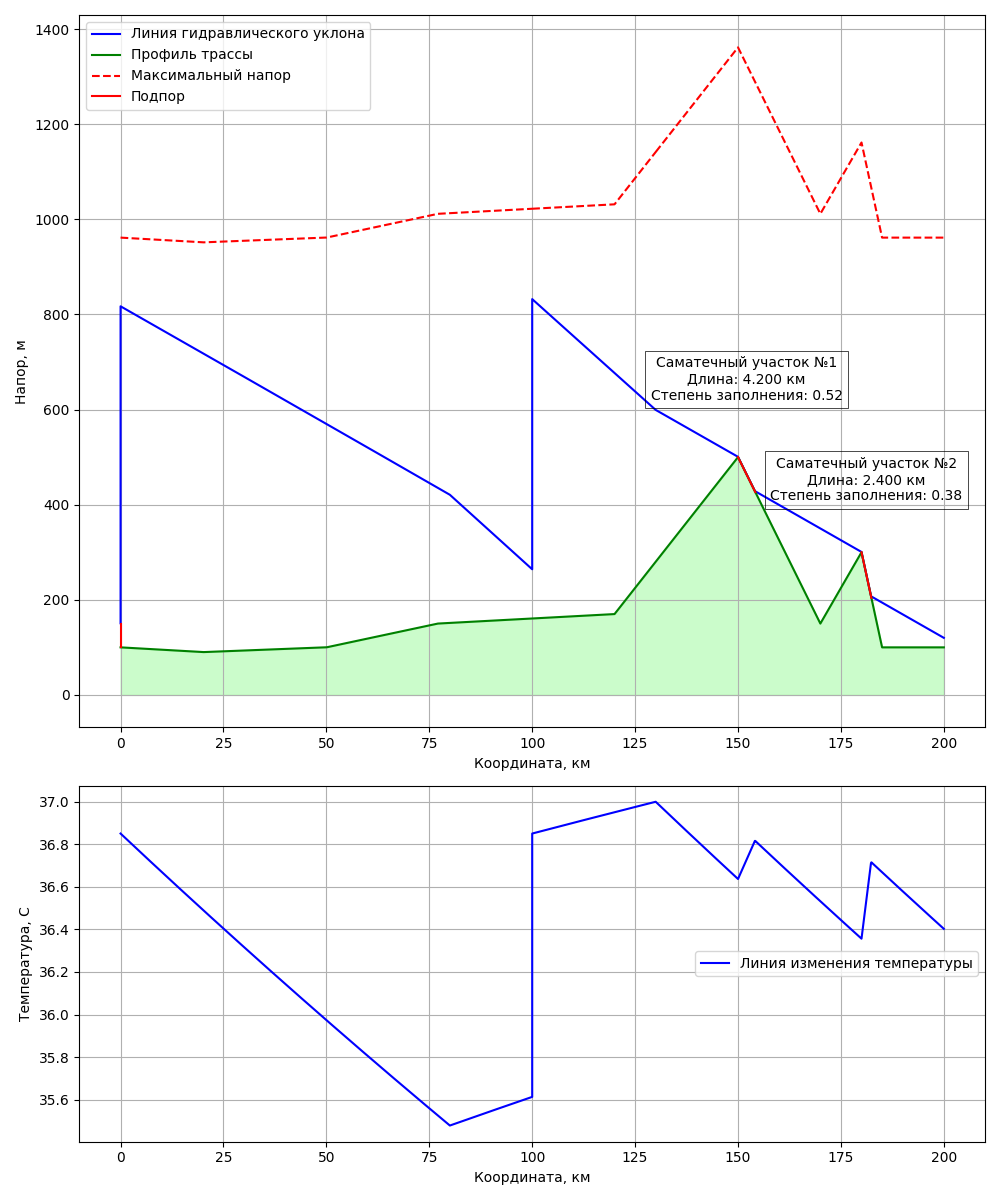
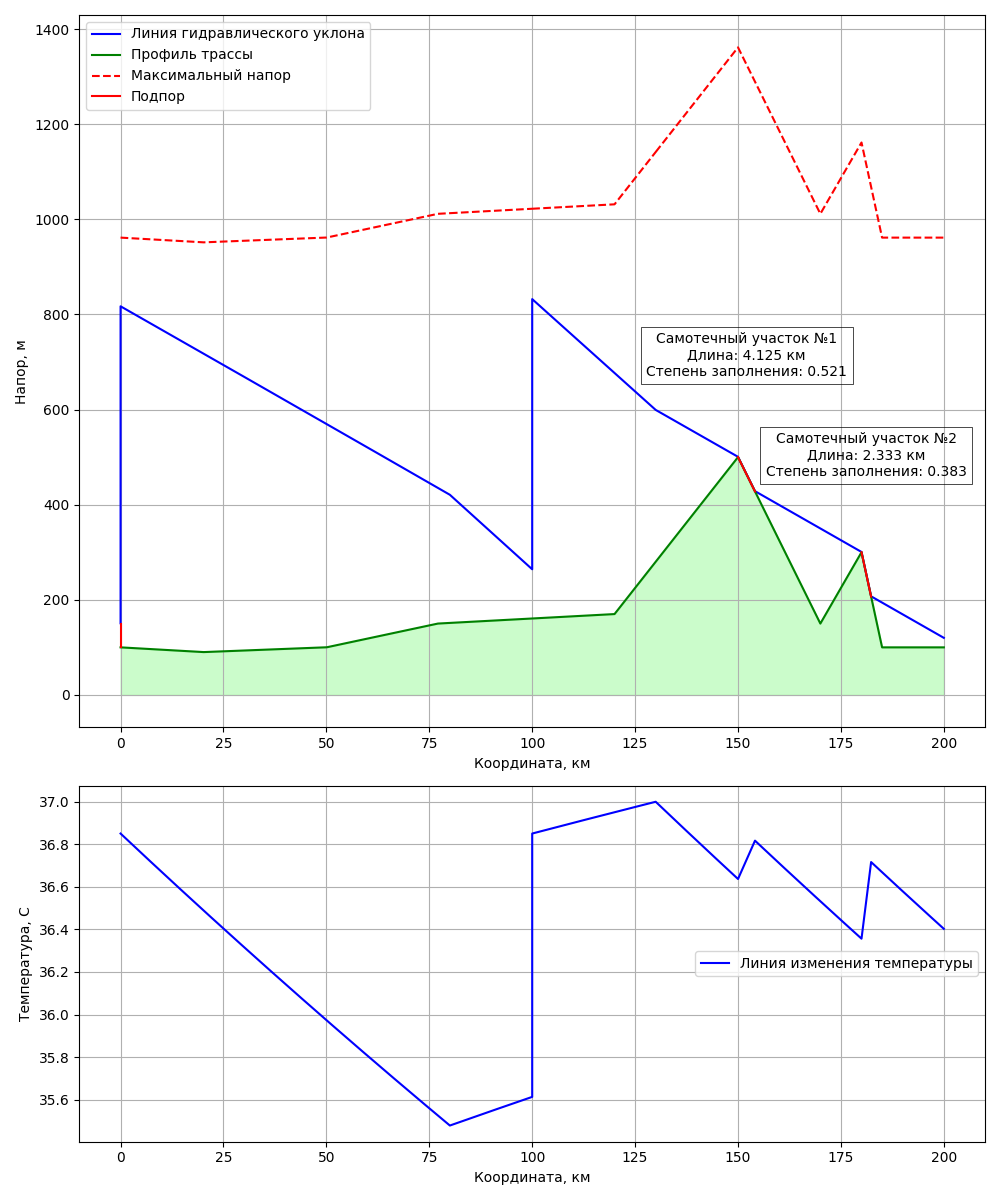
TODO: Plotter

Changed region(s): [[0.651, 0.2775, 0.961, 0.4317]]

diff --git a/src/plotter.py b/src/plotter.py
@@ -6,6 +6,7 @@ import matplotlib.patches as patches
 
 from src.models import HydraulicModelBase, Pipeline
 from src.models.pipeline import SelfFlow
+from src.tools import get_pressure
 
 
 class Plotter:
@@ -13,6 +14,7 @@ class Plotter:
             self,
             models: List[HydraulicModelBase],
             inlet_head: float,  # Костыль №1
+            
     ):
         self._inlet_head = inlet_head
         self._temperature_env = None
@@ -23,17 +25,25 @@ class Plotter:
         coordinate_data, head_data, elevation_data, temperature_data, head_max_data = self._get_plot_data()
         coordinate_data = np.array(coordinate_data) / 1e3
         temperature_data = np.array(temperature_data) - 273.15
+        head_data = np.array(head_data)
+        series = pd.Series(head_max_data)
+        head_max_data = 
+        elevation_data = np.array(elevation_data)
 
-
-        fig, axs = plt.subplots(2, 1, layout='tight', height_ratios=[2,1])
-        fig.set_size_inches(10, 12)
-
+        density = self._models[0].density
         
+        pressure_data = head_data - elevation_data
+        pressure_data = get_pressure(pressure_data, density) / 1e6
 
+        max_pressure_data = head_max_data - elevation_data
+        max_pressure_data = get_pressure(max_pressure_data, density) / 1e6
+
+        fig, axs = plt.subplots(3, 1, layout='tight', height_ratios=[2,1,1])
+        fig.set_size_inches(10, 12)
 
         axs[0].plot(coordinate_data, head_data, label='Линия гидравлического уклона', color='blue')
         axs[0].plot(coordinate_data, elevation_data, label='Профиль трассы', color='green')
-        axs[0].plot(coordinate_data, head_max_data, label='Максимальный напор', color='red', linestyle='--')
+        axs[0].plot(coordinate_data, head_max_data, label='Несущая способность', color='red', linestyle='--')
         axs[0].plot(
             (coordinate_data[0], coordinate_data[0]),
             (elevation_data[0], self._inlet_head),
@@ -45,10 +55,10 @@ class Plotter:
                 axs[0].plot([self_flow.start_coordinate / 1000, self_flow.end_coordinate / 1000], [self_flow.start_elevation, self_flow.end_elevation], color='red')
                 
                 x = (self_flow.start_coordinate + self_flow.end_coordinate) / 2 / 1000
-                y = (self_flow.start_elevation + self_flow.end_elevation) / 2 + 200
+                y = (self_flow.start_elevation + self_flow.end_elevation) / 2 + 250
                 
                 # Форматирование текста
-                text = f"Саматечный участок №{i}\nДлина: {self_flow.length / 1000:.3f} км\nCтепень заполнения: {self_flow.filling_degree:.3f}"
+                text = f"Самотечный участок №{i}\nДлина: {self_flow.length / 1000:.3f} км\nCтепень заполнения: {self_flow.filling_degree:.3f}"
                 bbox={"fill": False,
                    "linestyle": "solid",
                    "linewidth": 0.5}
@@ -63,13 +73,19 @@ class Plotter:
         axs[0].set_ylabel('Напор, м')
         axs[0].grid(True)
 
-        axs[1].plot(coordinate_data, temperature_data, label='Линия изменения температуры', color='blue')
-        # if self._temperature_env:
-        #     axs[1].axhline(y=self._temperature_env - 273.15, color='red', linestyle='--', label='Температура окружающей среды')
-        axs[1].legend(loc='right')
+        
+        axs[1].plot(coordinate_data, pressure_data, label='Линия изменения давления', color='blue') 
+        axs[1].plot(coordinate_data, max_pressure_data, label='Линия максимального давления', color='blue')
+        axs[1].legend(loc='best')
         axs[1].set_xlabel('Координата, км')
-        axs[1].set_ylabel('Температура, С')
+        axs[1].set_ylabel('Давление, MPa') 
         axs[1].grid(True)
+
+        axs[1].plot(coordinate_data, temperature_data, label='Линия изменения температуры', color='blue')
+        axs[2].legend(loc='best')
+        axs[2].set_xlabel('Координата, км')
+        axs[2].set_ylabel('Температура, С')
+        axs[2].grid(True)
 
         fig.savefig("plot")
         return fig
@@ -94,6 +110,7 @@ class Plotter:
             if isinstance(model, Pipeline):
                 self._temperature_env = model.temperature_env
                 self.self_flows += model.self_flows
+                
 
 
         return coordinate_data, head_data, elevation_data, temperature_data, head_max_data

diff --git a/src/models/pipeline.py b/src/models/pipeline.py
@@ -75,6 +75,13 @@ class Pipe():
 
         # Проверка на самотечные участки
         if self.inlet_pressure < constant.saturated_vapour_pressure:
+            if not self.outlet_node.is_self_flow:
+                i = (self.inlet_node.head - self.outlet_node.head) / self.length
+                devider = (self.outlet_node.elevation - self.inlet_node.elevation + i * (self.outlet_node.x - self.inlet_node.x))
+                
+                self.inlet_node.x = self.outlet_node.x + ((self.outlet_node.head - self.outlet_node.elevation - get_head(constant.saturated_vapour_pressure, self.density)) 
+                   / devider * (self.outlet_node.x - self.inlet_node.x)) 
+            
             self.inlet_node.is_self_flow = True
             self.inlet_node.head = get_head(constant.saturated_vapour_pressure,
                                             self.density) + self.inlet_node.elevation
@@ -207,7 +214,8 @@ class Pipeline(HydraulicModelBase):
     def _find_self_flows(self):
         current_status = False
         self_flow: SelfFlow | None = None
-        for node in self.nodes:
+        for i in range(len(self.nodes)):
+            node = self.nodes[i]
             if node.is_self_flow and not current_status:
                 self_flow = SelfFlow()
                 self_flow.start_coordinate = node.x
@@ -215,9 +223,10 @@ class Pipeline(HydraulicModelBase):
                 self.self_flows.append(self_flow)
                 current_status = True
 
-            if current_status and not node.is_self_flow: 
-                self.self_flows[-1].end_coordinate = node.x
-                self.self_flows[-1].end_elevation = node.elevation
+            if current_status and not node.is_self_flow:
+                end_node = self.nodes[i - 1]
+                self.self_flows[-1].end_coordinate = end_node.x
+                self.self_flows[-1].end_elevation = end_node.elevation
                 self.self_flows[-1].filling_degree = self._get_filling_degree(self.self_flows[-1])
                 current_status = False
 
